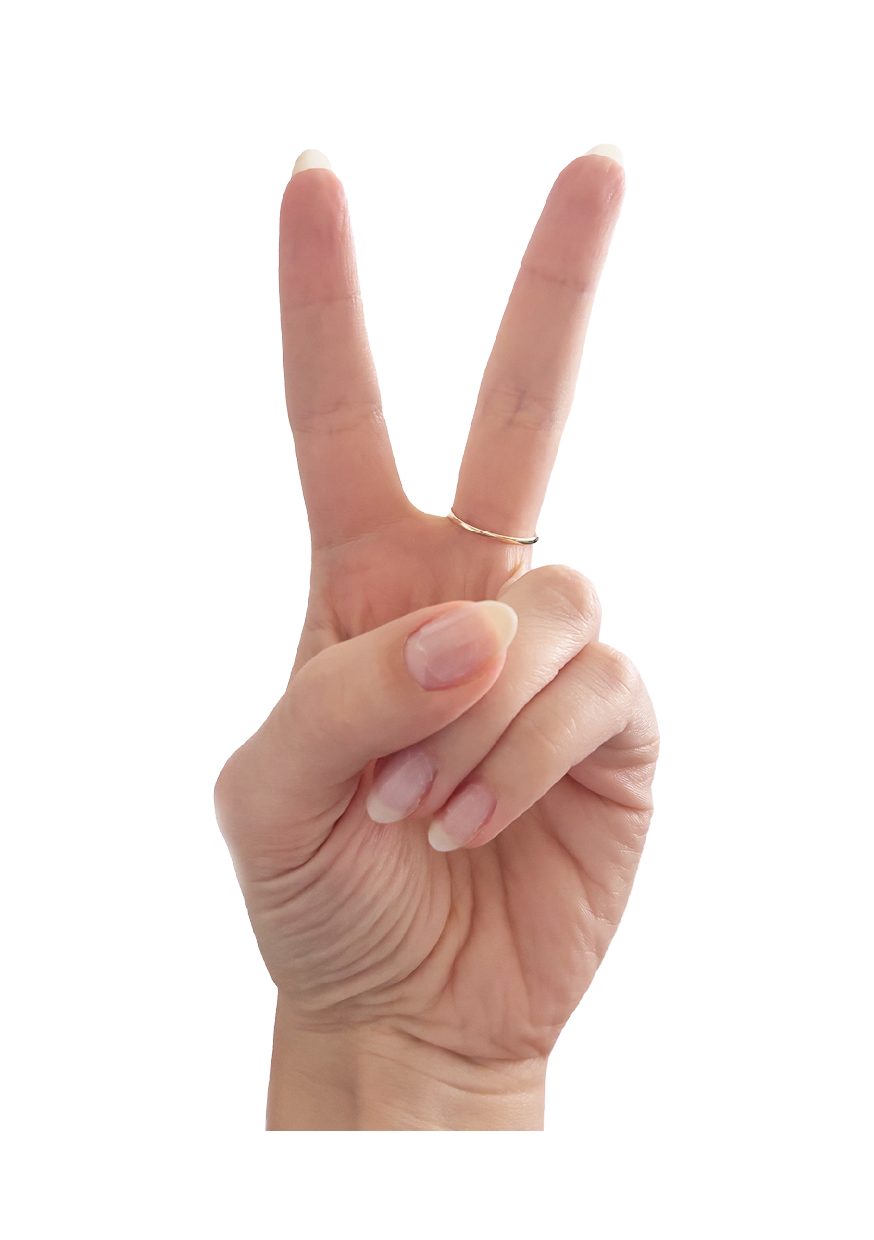
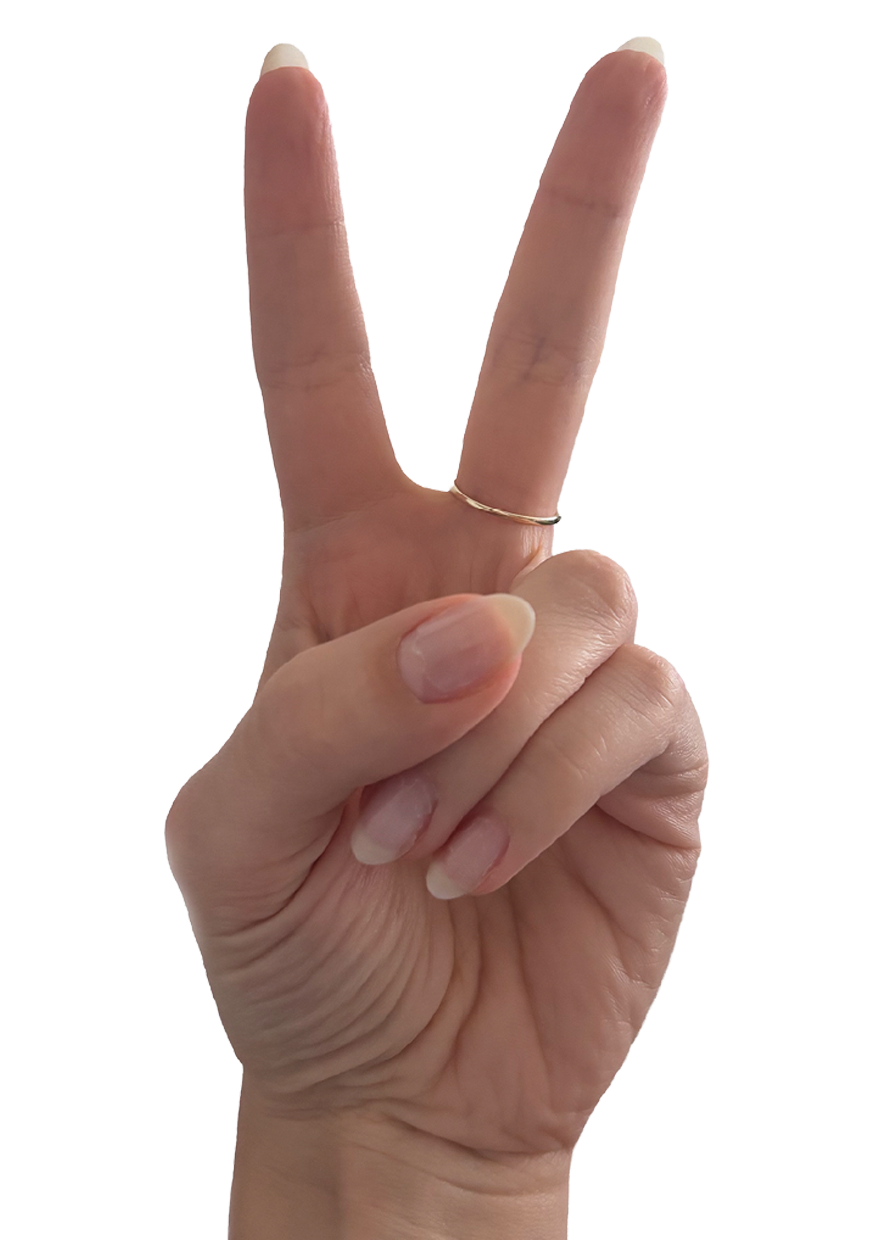
Add Seite/Kapitel search toggle and fill book-1 content
- Split search into separate Seite and Kapitel modes with a segmented toggle
- Style toggle with accentMuted background matching header and AI panel
- Lay out toggle, search input, and sound icon in a single row
- Update book-1 content with new entries
- Update welcome hand image

diff --git a/lib/content/book-1.ts b/lib/content/book-1.ts
@@ -3,44 +3,167 @@ import { BookContent } from './types';
 const content: BookContent = {
   bookId: 1,
   keyPoints: [
-    { text: 'Die Stadt am Wasser prägt das Leben der Bewohner grundlegend. [1]', pages: [12], chapters: [1] },
-    { text: 'Stefan entdeckt ein Geheimnis, das die ganze Gemeinschaft betrifft. [2]', pages: [34], chapters: [2] },
-    { text: 'Das Fahrwasser symbolisiert sowohl Gefahr als auch Freiheit. [1]', pages: [58], chapters: [3] },
-    { text: 'Vergangenheit und Gegenwart sind untrennbar miteinander verwoben. [3]', pages: [82], chapters: [4] },
-    { text: 'Am Ende steht eine Entscheidung, die alles verändern wird. [2]', pages: [110], chapters: [5] },
+    { text: '. [1]', pages: [12], chapters: [1] },
+    { text: '. [2]', pages: [34], chapters: [2] },
+    { text: '. [1]', pages: [58], chapters: [3] },
+    { text: '. [3]', pages: [82], chapters: [4] },
+    { text: '. [2]', pages: [110], chapters: [5] },
   ],
   sections: [
     {
       title: 'DIE WELT DES FAHRWASSERS',
       bullets: [
-        { text: 'Die fiktive Hafenstadt liegt an einem weitverzweigten Flussdelta. [1]', pages: [10, 11, 12], chapters: [1] },
-        { text: 'Das Wasser bestimmt den Rhythmus des Alltags — Handel, Fischfang und Reise. [1]', pages: [14, 15], chapters: [1] },
-        { text: 'Die Architektur spiegelt Jahrhunderte von Einflüssen wider. [3]', pages: [18], chapters: [1] },
-        { text: 'Soziale Hierarchien sind eng mit dem Zugang zum Wasser verknüpft. [2]', pages: [22, 23], chapters: [2] },
+        { text: 'Wasser wird in Deutschland zunehmend knapp. Jeder zweite Landkreis ist von Wasserstress betroffen (v.A. Lankreise mit intensiver Landwirtschaft, Industrie oder dichter Besiedelung.) [0]', pages: [], chapters: [] },
+        { text: 'Wasserknappheit gilt als größte Herausforderung in der Wasserversorgungssicherheit. [1]', pages: [], chapters: [] },
+        { text: '28% der EU waren 2023 von Wasserknappheit betroffen. [2]', pages: [], chapters: [] },
+        { text: '2023 waren insbesondere Flussteilgebiete von Wasserknappheit betroffen, auch in Deutschland. [2]', pages: [], chapters: [] },
+        { text: 'Wasserknappheit betrifft nicht nur Südeuropa sondern die gesamte EU. [2]', pages: [], chapters: [] },
+        { text: 'Während der letzten zehn Jahren hat die Häufigkeit und Schwere von Dürren zugenommen, was negative Folgen für die Wasserverfügbarkeit hat. [2]', pages: [], chapters: [] },
+        { text: 'Wasserknappheit und Dürren werden in der EU immmer häufiger und flächendeckender. [3]', pages: [], chapters: [] },
+        { text: 'Die Herausforderungen um Wasserknappheit verschärfen sich, Unsicherheit wird Normalität und die Anpassungsfähigkeit könnte überschritten werden. [4]', pages: [], chapters: [] },
+        { text: 'In heutigen Städten sind mehr als 933 Millionen Menschen von Wasserknappheit betroffen. [5]', pages: [], chapters: [] },
+        { text: '2050 werden 30-50% der Weltbevökerung von Wasserknappheit in Städten betroffen sein. [5]', pages: [], chapters: [] },
+        { text: 'Die urbane Wassernachfrage wächst bis 2050 um 80%. [5]', pages: [], chapters: [] },
+        { text: 'Gründe für urbanen Wassermangel sind: Mangel an Oberflächenwasser, Bodenversiegelung, Grundwasserübernutzung sowie höherer Wasserbedarf aufgrund von Urbanisierung und steigendem Pro-Kopf-Verbrauch. [5]', pages: [], chapters: [] },
+        { text: '2050 könnten 1,6 bis 2,3 Mrd. Menschen von Wasserknappheit betroffen sein. [5]', pages: [], chapters: [] },
+        { text: 'Der Mensch verteilt Wasser ungerecht und verschmutzt und übernutzt es vielerorts. [6]', pages: [], chapters: [] },
+        { text: 'Die ungleiche Verteilung von Wasser äußert sich in der Übernutzung der Wasserressourcen, z.B. durch einkommensstarke Bevölkerungsgruppen im urbanen Raum. [7]', pages: [], chapters: [] },
+        { text: 'Schon heute sind die Auswirkungen des Klimawandels auf die Wasserversorgung spürbar. [6]', pages: [], chapters: [] },
+        { text: 'Weltweit haben etwa 2,2 Mrd. Menschen keinen Zugang zu sauberem Trinkwasser, insbesondere in ländlichen Gebieten. [6]', pages: [], chapters: [] },
+        { text: 'Etwa 3,5 Mrd. Menschen verfügen über keinen ausreichenden Zugang zu sanitären Einrichtungen. [6]', pages: [], chapters: [] },
+        { text: 'Stärekere Hitzewellen maximieren den täglichen Wasserverbrauch, was die Kapazität von Aufbereitungsanlagen und Verteilsystemen überlastet. Die Konsequenz sind vorübergehende Versorgungsengpässe und möglicherweise Nutzungslimits. [8]', pages: [], chapters: [] },
+        { text: 'Trinkwasserversorgungssysteme beschränken sich häufig auf eine Ressource (z.B. Grundwasser). Wenn diese ausfällt (z.B. durch Dürre) kann das zu Engpässen führen. [8]', pages: [], chapters: [] },
+        { text: 'Wasserknappheit und Nutzungslimits sind kein Problem der Zukunft: In der Wasserkrise von Kapstadt (2015-2018) wurde der Wasserverbrauch aufgrund extremer Dürre und sinkendem Pegel, der für die Trinkwasserversorgung genutzten Talsperre, zeitweise auf 50 Liter pro Person pro Tag begrenzt. [8]', pages: [], chapters: [] },
+        { text: 'Durch Dürre und Hitze (z.B. Verdunstung) können Schadstoffe in Oberflächengewässern nicht richtig verdünnt werden, wodurch die Wasserqualität sinkt. [9]', pages: [], chapters: [] },
+        { text: 'Mit dem Klimawandel entsteht eine schwer beherrschbare Krise der Wasserverfügbarkeit, die erhebliche Folgen für das Ökosystem und den Menschen mit sich bringt. [9]', pages: [], chapters: [] },
+        { text: 'Ohne Maßnahmen könnte sich die jährlich in die Umwelt gelangende Kuststoffmenge bis 2060 weltweit auf etwa 44 Mio. Tonnen erhöhen, wodurch auch die Belastung durch Mikro- und Nanoplastik erheblich zunehmen würde. Das wiederum hätte negative Auswirkungen auf die Wasserqualität. [10]', pages: [], chapters: [] },
+        { text: 'Die Nachfrage nach Wasser wird sich laut UNESCO (2023) jährlich um ca. 1% erhöhen. Im Jahr 2050 wäre das ein Zuwachs von 20-30% [11]', pages: [], chapters: [] },
+        { text: 'Durch die globale Erwärmung nehmen die Bodenfeuchte und grünes Wasser (z.B. Regenwasser) ab, was sich auf die gesamte Wasserverfügbarkeit auswirkt. [12]', pages: [], chapters: [] },
+        { text: 'Kommt es als Reaktion auf den Klimawandel zu einer steigenden Grundwasserentnahme, könnten durch die Übernutzung Grundwasseranteile auf der ganzen Welt knapp werden. [12]', pages: [], chapters: [] },
+        { text: 'Bis Ende des Jahrhunderts kann mit anhaltenden Perioden geringer Grundwasserstände gerechnet werden. [13]', pages: [], chapters: [] },
+        { text: 'Auch in Regionen wie Deutschland, in denen das Wasseraufkommen eher hoch ist, führt der Klimawandel zunehmend zu Wasserstress, insbesondere durch heiße, trockene Sommer. [14]', pages: [], chapters: [] },
+        { text: 'Grundwasser ist in Deutschland mit fast 70% die wichtigste Trinkwasserquelle. 2019 wurden in Deutschland 62,4% des Trinkwassers aus dem Grundwasser, 12,6% aus See- und Talsperren, 8% aus angereichertem Grundwasser, Uferfiltrat und Quellwasser sowie 1,2% aus Flusswasser gewonnen. [14][15]', pages: [], chapters: [] },
+        { text: 'Im Jahr 2019 nutzte die an die Wasserversorgung angeschlossene Bevölkerung etwa 128 Liter pro Person pro Tag. [16]', pages: [], chapters: [] },
+        { text: 'Durch den Klimawandel und dadurch häufiger auftretenden Hitzewellen und Dürren, wird es in Deutschland zunehmend zu regionaler Wasserknappheit und Wassernutzungskonflikten kommen. [17]', pages: [], chapters: [] },
+        { text: '2022 waren hauptsächlich PrivatverbraucherInnen von Wassernutzungskonflikten betroffen (v.A. durch Entnahmeverbote oder kurzfristige Abhängigkeit von einer Trinkwasser-Ersatzversorgung). [18]', pages: [], chapters: [] },
+        { text: 'Dürren werden als "neue Normalität" häufiger und länger auftreten. [19]', pages: [], chapters: [] },
+        { text: 'Viele Regionen in Deutschland sind bereits von Wasserknappheit und Wassernutzungskonflikten betroffen. Der Klimawandel und ein steigender Bedarf verschärfen die Situation, insbesondere während Trockenperioden. [19]', pages: [], chapters: [] },
+        { text: 'Ein Ansatz zur Erweiterung des Wasserangebots ist die Meerwasserentsalzung, die allerdings Nebeneffekte hat. [20]', pages: [], chapters: [] },
+        { text: 'Bei Meerwasserentnahme und Rückführung wird das Wasserökosystem belastet. [21]', pages: [], chapters: [] },
+        { text: 'Durch fortschreitenden Klimawandel und Wasserverschmutzung one Schutz- und Regulierungsmaßnahmen ist langfristig mit erheblichen Risiken für die Wasserversorgung der Bevölkerung mit qualitativ geeignetem Wasser zu rechnen. [22]', pages: [], chapters: [] },
+        { text: 'In Zukunft wird voraussichtlich mehr Wasser aus Meeren, Böden und anderen Wasseroberflächen verdunsten. Gleichzeitig kann die Atmosphäre immer größere Mengen Wasser aufnehmen. Dadurch geht an vielen Orten weltweit mehr Wasser von der Erdoberfläche verloren. [22]', pages: [], chapters: [] },
+        { text: 'Der Verlust von Grundwasser kann Wassermangel verstärken, Grundwasserversalzung verursachen, zum Versiegen von Brunnen beitragen, Ökosysteme die vom Grundwasser abhängen schädigen, das Eindringen von Abwasser ins Grundwasser begünstigen sowie zum Verlust von Vegetation und Biodiversität beitragen. [22]', pages: [], chapters: [] },
+        { text: 'Insbesondere Süd- und Mitteleuropa verlieren schnell an Wasserreserven. Die Südhälfte Europas von Spanien bis Deutschland wird immer trockener [23]', pages: [], chapters: [] },
+      ],
+    },
+
+    {
+      title: 'WASSERKNAPPHEIT',
+      bullets: [
+        { text: 'Wasser ist ein knappes, begehrtes und ungleich verteiltes Gut. [24]', pages: [4, 65, 41], chapters: [1, 5, 8] },
+        { text: 'Einkommensstarke Bevölkerungsgruppen im urbanen Raum verbrauchen mehr Wasser als andere Gruppen (Übernutzung). [2]', pages: [4], chapters: [1] },
+        { text: 'Der Wasserverbrauchsindes Plus (WEI+) zeigt, wie stark die verfügbaren Wasservorräte genutzt werden. Er macht deutlich, ob in einer Region genug Süßwasser vorhanden ist oder ob bereits Wassermangel droht. Wenn mehr als 20% des verfügbaren Wassers verbraucht werden, gilt das Gebiet bereits als belastet. Steigt der Wert über 40%, wird so viel Wasser genutzt, dass dies auf Dauer problematisch und möglicherweise nicht mehr umweltverträglich ist. [2]', pages: [5], chapters: [1] },
+        { text: 'Etwa 2,2 Mrd. Menschen haben keinen sicheren Zugang zu Trinkwasser, insbesondere Menschen mit geringerem Einkommen (UNESCO, 2024). [6]', pages: [13], chapters: [1] },
+        { text: 'Insbesondere in ländlichen Gebieten ist die Versorgungslage eine Herausforderung. [6]', pages: [13], chapters: [1] },
+        { text: 'In einigen Regionen Deutschlands muss die bewässerte Fläche in Zukunft limitiert werden um in der zweiten Hälfte des 21. Jahrunderts die öffentliche Wasserversorgung auch bei Grundwasserknappheit sicherzustellen. [25]', pages: [27], chapters: [3] },
+        { text: 'Zu diesen Regionen zählen unter anderem Regionen im Oberrheingraben, im westlichen Nordrhein-Westfalen, im südöstlichen Niedersachsen, im mitteldeutschen Trockengebiet sowie Brandenburg und Mecklemburg-Vorpommern. [25]', pages: [27], chapters: [3] },
+        { text: 'Durch sinkende Grundwasserspiegel und Niedrigwasserperioden über einen längeren Zeitraum können Nutzungskonflikte zwischen Haushalten, Industrie, Landwirtschaft und Wasserökosystemen enstehen oder verschärft werden. [26]', pages: [27], chapters: [3] },
+        { text: 'Simulationen zeigen eine starke Zunahme extremer Dürren ab den 2030er Jahren bis zwischen 2081 und 2100 kein Jahr in Deutschland nicht als extrem trocken eingestuft wird. [27]', pages: [36], chapters: [4] },
+        { text: 'Fehlender Zugang zu sauberem Trinkwasser wirkt sich bei älteren Menschen häufig schneller lebensverkürzend aus, als bei jungen Menschen. [28]', pages: [38, 39], chapters: [4, 5] },
+        { text: 'Wasserknappheit in Kapstadt 2015: Der Wasserverbrauch wurde vorübergehend auf 50 Liter pro Person pro Tag begrenzt. [8]', pages: [41, 65], chapters: [5, 8] },
+        { text: 'Eine mangelhafte Wasserversorgung beeinträchtigt neben der Vitalität und Leistung eines Menschen auch die Leistung der Gesellschaft, was zu wirtschaftlichen und gesellschaftspolitischen Konzequenzen führen kann. [5]', pages: [44, 72, 73], chapters: [5, 9] },
+        { text: 'Dehydration ist die Konsequenz von Wassermangel und wenn der Körper nicht mehr in der Lage ist die übermäßige Hitze zu auszugelichen. [29]', pages: [56], chapters: [7] },
+        { text: 'Etwa die Hälfte des Jahres leidet rund die Hälfte der globalen Bevölkerung unter Wassermangel. [30]', pages: [65, 56, 41], chapters: [8, 5, 7] },
+        { text: 'Durch Hitzewellen kommt es zu höherem maximalem Wasserverbrauch pro Tag, wofür die Kapazität von Aufbereitungsanlagen und Verteilungsnetze nicht ausgelegt sind. Daher kommt es zu Nutzungslimits. [8]', pages: [65, 41], chapters: [8, 5] },
+        { text: '"Wasser ist der Blutkreislauf der Biosphäre" (Ripl., 2003). [30]', pages: [72, 73], chapters: [9] },
+        { text: 'Klimaextreme werden häufiger, darunter auch das Auftreten von Starkregenereignissen. [31]', pages: [72, 73], chapters: [1, 5, 8] },
+        { text: 'Extremereignisse wie Hitzewellen, Dürren oder Starkregen werden global betrachtet häufiger, heftiger, treten schneller auf und in kürzeren Zeiträumen. [32]', pages: [72, 73], chapters: [9] },
+        { text: 'Starkregenereignisse werden häufiger und intensiver, besonders in Nordamerika, Europa und Asien. [32]', pages: [72, 73], chapters: [9] },
+        { text: 'Starkregen und Hochwasser sind keine Jahrhundertereignisse mehr sondern Teil der neuen Realität. [33]', pages: [72, 73], chapters: [9] },
+        { text: '. [30]', pages: [72, 73], chapters: [9] },
+
       ],
     },
     {
-      title: 'STEFANS GESCHICHTE',
+      title: 'HITZE',
       bullets: [
-        { text: 'Stefan wuchs als Sohn eines Fischers in den ärmeren Vierteln auf. [2]', pages: [30, 31], chapters: [2] },
-        { text: 'Seine besondere Fähigkeit, Strömungen zu lesen, macht ihn einzigartig. [2]', pages: [36], chapters: [2] },
-        { text: 'Ein Fund am Flussufer verändert sein Leben für immer. [3]', pages: [40, 41], chapters: [3] },
-        { text: 'Die Begegnung mit Emilia stellt alles in Frage, was er zu wissen glaubte. [3]', pages: [55, 56], chapters: [3] },
+        { text: '. [2]', pages: [30, 31], chapters: [2] },
+        { text: '. [2]', pages: [36], chapters: [2] },
+        { text: '. [3]', pages: [40, 41], chapters: [3] },
+        { text: '. [3]', pages: [55, 56], chapters: [3] },
       ],
     },
     {
-      title: 'THEMEN UND MOTIVE',
+      title: 'NATUR & BODEN',
       bullets: [
-        { text: 'Wasser als Metapher für Wandel und Unberechenbarkeit. [1]', pages: [60], chapters: [3] },
-        { text: 'Die Grenze zwischen Kontrolle und Chaos zieht sich durch den gesamten Roman. [3]', pages: [75, 76], chapters: [4] },
-        { text: 'Heimat als etwas, das man verlieren und neu finden kann. [2]', pages: [90], chapters: [4] },
+        { text: '. [1]', pages: [60], chapters: [3] },
+        { text: '. [3]', pages: [75, 76], chapters: [4] },
+        { text: '. [2]', pages: [90], chapters: [4] },
+      ],
+    },
+    {
+      title: 'URBANE ENTWICKLUNG',
+      bullets: [
+        { text: '. [1]', pages: [60], chapters: [3] },
+        { text: '. [3]', pages: [75, 76], chapters: [4] },
+        { text: '. [2]', pages: [90], chapters: [4] },
+      ],
+    },
+    {
+      title: 'SOZIALE ISOLATION',
+      bullets: [
+        { text: '. [1]', pages: [60], chapters: [3] },
+        { text: '. [3]', pages: [75, 76], chapters: [4] },
+        { text: '. [2]', pages: [90], chapters: [4] },
+      ],
+    },
+    {
+      title: 'EXTREMWETTER',
+      bullets: [
+        { text: '. [1]', pages: [60], chapters: [3] },
+        { text: '. [3]', pages: [75, 76], chapters: [4] },
+        { text: '. [2]', pages: [90], chapters: [4] },
       ],
     },
   ],
   sources: [
-    { id: 1, text: 'Autornotiz: Geographische Grundlagen der Stadtkonzeption, S. 10–25' },
-    { id: 2, text: 'Charakterstudie Stefan — Entwurfsdokument, Kapitel 2–3' },
-    { id: 3, text: 'Thematische Analyse: Wasser und Gesellschaft, S. 60–95' },
+    { id: 0, text: 'BUND, 2025' },
+    { id: 1, text: 'Amparo-Salcedo et al., 2025, S. 5' },
+    { id: 2, text: 'European Environment Agency, 2025' },
+    { id: 3, text: 'European Commission, 2026' },
+    { id: 4, text: 'WBGU - Wissenschaftlicher Beirat der Bundesregierung Globale Umweltveränderungen, 2024, S.1' },
+    { id: 5, text: 'WBGU - Wissenschaftlicher Beirat der Bundesregierung Globale Umweltveränderungen, 2024, S.5' },
+    { id: 6, text: 'WBGU - Wissenschaftlicher Beirat der Bundesregierung Globale Umweltveränderungen, 2024, S.29' },
+    { id: 7, text: 'WBGU - Wissenschaftlicher Beirat der Bundesregierung Globale Umweltveränderungen, 2024, S.87' },
+    { id: 8, text: 'WBGU - Wissenschaftlicher Beirat der Bundesregierung Globale Umweltveränderungen, 2024, S.75' },
+    { id: 9, text: 'WBGU - Wissenschaftlicher Beirat der Bundesregierung Globale Umweltveränderungen, 2024, S.78' },
+    { id: 10, text: 'WBGU - Wissenschaftlicher Beirat der Bundesregierung Globale Umweltveränderungen, 2024, S.79' },
+    { id: 11, text: 'WBGU - Wissenschaftlicher Beirat der Bundesregierung Globale Umweltveränderungen, 2024, S.80' },
+    { id: 12, text: 'WBGU - Wissenschaftlicher Beirat der Bundesregierung Globale Umweltveränderungen, 2024, S.4' },
+    { id: 13, text: 'Wunsch et al., 2022, S.1' },
+    { id: 14, text: 'Wunsch et al., 2022, S.2' },
+    { id: 15, text: 'Flörke et al., 2024, S.73' },
+    { id: 16, text: 'Flörke et al., 2024, S.83' },
+    { id: 17, text: 'Flörke et al., 2024, S.156' },
+    { id: 18, text: 'Flörke et al., 2024, S.158' },
+    { id: 19, text: 'Flörke et al., 2024, S.290' },
+    { id: 20, text: 'WBGU - Wissenschaftlicher Beirat der Bundesregierung Globale Umweltveränderungen, 2024, S.38' },
+    { id: 21, text: 'WBGU - Wissenschaftlicher Beirat der Bundesregierung Globale Umweltveränderungen, 2024, S.40' },
+    { id: 22, text: 'WBGU - Wissenschaftlicher Beirat der Bundesregierung Globale Umweltveränderungen, 2024, S.66-69' },
+    { id: 23, text: 'Rezaee, 2025' },
+
+    //Sources for Wasserknappheit 
+    { id: 24, text: 'WBGU - Wissenschaftlicher Beirat der Bundesregierung Globale Umweltveränderungen, 2024, S.86-87' },
+    { id: 25, text: 'Flörke et al., 2024, S.25' },
+    { id: 26, text: 'Flörke et al., 2024, S.44' },
+    { id: 27, text: 'Flörke et al., 2024, S.94' },
+    { id: 28, text: 'WBGU - Wissenschaftlicher Beirat der Bundesregierung Globale Umweltveränderungen, 2024, S.42' },
+    { id: 29, text: 'Landeshauptstadt Stuttgart: Gesundheitsamt und Amt für Umweltschutz, 2025, S.15' },
+    { id: 30, text: 'WBGU - Wissenschaftlicher Beirat der Bundesregierung Globale Umweltveränderungen, 2024, S.30' },
+    { id: 31, text: 'Flörke et al., 2024, S.296' },
+    { id: 32, text: 'WBGU - Wissenschaftlicher Beirat der Bundesregierung Globale Umweltveränderungen, 2024, S.36' },
+    { id: 33, text: 'Bundesministerium für Umwelt, Klimaschutz, Naturschutz und nukleare Sicherheit, 2025' },
+
   ],
 };
 

diff --git a/app/(main)/book/[id].tsx b/app/(main)/book/[id].tsx
@@ -31,6 +31,7 @@ export default function BookScreen() {
   const content = getBookContent(Number(id));
 
   const [filter, setFilter] = useState('');
+  const [searchMode, setSearchMode] = useState<'seite' | 'kapitel'>('seite');
   const [searchFocused, setSearchFocused] = useState(false);
   const [soundOn, setSoundOn] = useState(false);
   const [aiOpen, setAiOpen] = useState(false);
@@ -120,10 +121,8 @@ export default function BookScreen() {
 
   function bulletMatches(bullet: BulletPoint) {
     if (!isFiltering) return true;
-    return (
-      (bullet.pages?.includes(filterNum) ?? false) ||
-      (bullet.chapters?.includes(filterNum) ?? false)
-    );
+    if (searchMode === 'seite') return bullet.pages?.includes(filterNum) ?? false;
+    return bullet.chapters?.includes(filterNum) ?? false;
   }
 
   async function sendMessage() {
@@ -235,11 +234,25 @@ export default function BookScreen() {
 
         {/* ── TOOLBAR ── */}
         <View style={styles.toolbar}>
+          <View style={[styles.searchToggle, { backgroundColor: accentMuted }]}>
+            {(['seite', 'kapitel'] as const).map((mode) => (
+              <TouchableOpacity
+                key={mode}
+                style={[styles.togglePill, searchMode === mode && styles.togglePillActive]}
+                onPress={() => { setSearchMode(mode); setFilter(''); }}
+                activeOpacity={0.8}
+              >
+                <Text style={[styles.toggleLabel, { color: searchMode === mode ? book.accentColor : Colors.colorDark }]}>
+                  {mode === 'seite' ? 'Seite' : 'Kapitel'}
+                </Text>
+              </TouchableOpacity>
+            ))}
+          </View>
           <View style={[styles.searchContainer, { borderColor: searchFocused ? book.accentColor : 'transparent' }]}>
             <Icon name="explore" size="sm" color={Colors.grey500} />
             <TextInput
               style={styles.searchInput}
-              placeholder="Seite oder Kapitel eingeben…"
+              placeholder={searchMode === 'seite' ? 'Seitenzahl…' : 'Kapitelnummer…'}
               placeholderTextColor={Colors.grey500}
               keyboardType="number-pad"
               value={filter}
@@ -272,7 +285,9 @@ export default function BookScreen() {
           keyboardShouldPersistTaps="handled"
         >
           {!hasResults && isFiltering && (
-            <Text style={styles.noResults}>Keine Einträge für diese Seite / dieses Kapitel.</Text>
+            <Text style={styles.noResults}>
+              {searchMode === 'seite' ? 'Keine Einträge für diese Seite.' : 'Keine Einträge für dieses Kapitel.'}
+            </Text>
           )}
 
           {/* WICHTIGE PUNKTE */}
@@ -483,6 +498,24 @@ const styles = StyleSheet.create({
     gap: 12,
     borderBottomWidth: 1,
     borderBottomColor: Colors.grey200,
+  },
+  searchToggle: {
+    flexDirection: 'row',
+    borderRadius: 24,
+    padding: 4,
+  },
+  togglePill: {
+    paddingHorizontal: 14,
+    paddingVertical: 6,
+    borderRadius: 20,
+    alignItems: 'center',
+  },
+  togglePillActive: {
+    backgroundColor: Colors.white,
+  },
+  toggleLabel: {
+    fontSize: 13,
+    fontWeight: '600',
   },
   searchContainer: {
     flex: 1,